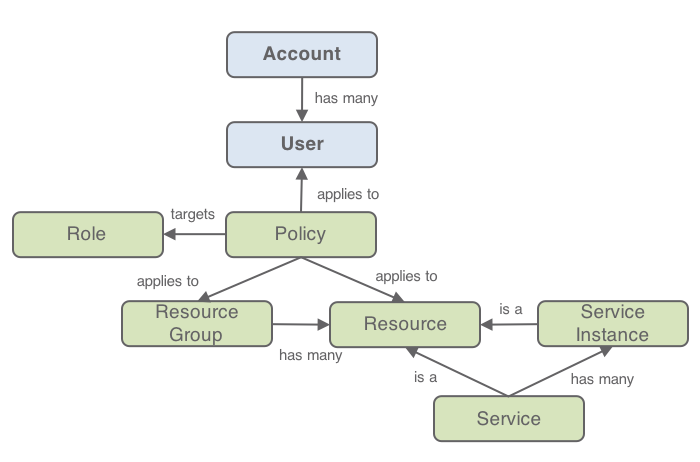
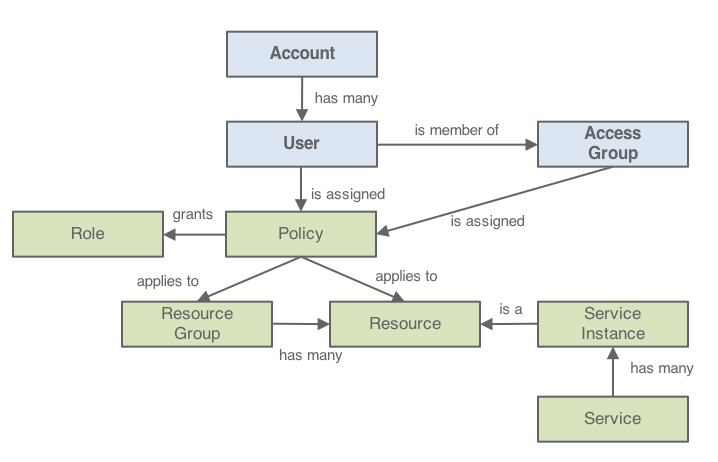
introduce reference to access groups

Changed region(s): [[0.0, 0.0606, 0.99, 0.9697], [0.57, 0.4242, 0.75, 0.5152], [0.72, 0.3939, 0.78, 0.4242]]

diff --git a/users-teams-applications.md b/users-teams-applications.md
@@ -76,13 +76,13 @@ When it comes to assigning responsibilities to the project team members, let's d
 A **policy** assigns a user or service ID one or more **roles** with a combination of attributes that define the scope of access. The policy can provide access to a single service down to the instance level, or the policy can apply to a set of resources organized together in a resource group. Depending on the user roles that you assign, the user or service ID is allowed varying levels of access for completing platform management tasks or accessing a service by using the UI or performing specific types of API calls.
 
 <p style="text-align: center;">
-  <img src="./images/solution20-users-teams-applications/iam-model.png" width="50%" />
+  <img src="./images/solution20-users-teams-applications/iam-model.png" style="width: 70%;" />
 </p>
 
 At this time, not all services in the {{site.data.keyword.cloud_notm}} catalog can be managed by using IAM. For these services, you can continue to use Cloud Foundry by providing users access to the organization and space to which the instance belongs with a Cloud Foundry role assigned to define the level of access that is allowed.
 
 <p style="text-align: center;">
-  <img src="./images/solution20-users-teams-applications/cloudfoundry-model.png" width="50%" />
+  <img src="./images/solution20-users-teams-applications/cloudfoundry-model.png" style="width: 70%;" />
 </p>
 
 ## Create the resources for one environment
@@ -90,7 +90,7 @@ At this time, not all services in the {{site.data.keyword.cloud_notm}} catalog c
 Although the three environments needed by this sample project require different access rights and may need to be allocated different capacities, they share a common architecture pattern.
 
 <p style="text-align: center;">
-  <img src="./images/solution20-users-teams-applications/one-environment.png" width="80%" />
+  <img src="./images/solution20-users-teams-applications/one-environment.png" style="width: 80%;" />
 </p>
 
 
@@ -113,7 +113,8 @@ The following diagram shows where the project resources are created under the ac
 ## Assign roles within the environment
 
 1. Invite users to the account
-1. Assign Policies to the users to control who can access the {{site.data.keyword.containershort_notm}} instance and their permissions. Refer to the [access policy definition](https://console.bluemix.net/docs/containers/cs_users.html#access_policies) to select the right policy for a user in the environment. 
+1. Assign Policies to the users to control who can access the {{site.data.keyword.containershort_notm}} instance and their permissions. Refer to the [access policy definition](https://console.bluemix.net/docs/containers/cs_users.html#access_policies) to select the right policies for a user in the environment. Users with the same set of policies can be placed into the [same access group](https://console.bluemix.net/docs/iam/groups.html#groups). It simplifies the user management as policies will be assigned to the access group and inherited by all users in the group.
+
 1. Configure their Cloud Foundry organization and space roles based on their needs within the environment. Refer to the [role definition](https://console.bluemix.net/docs/iam/cfaccess.html#cfaccess) to assign the right roles based on the environment.
 
 Refer to the documentation of services to understand how a service is mapping IAM and Cloud Foundry roles to specific actions. See for example [how the IBM Cloud Monitoring service maps IAM roles to actions](https://console.bluemix.net/docs/services/cloud-monitoring/security_ov.html#iam_roles).
@@ -134,7 +135,7 @@ For the Development environment, the user responsibilities defined earlier could
 The IAM access policies and Cloud Foundry roles are defined in the [Identify and Access Management user interface](https://console.bluemix.net/iam/#/users):
 
 <p style="text-align: center;">
-  <img title="" src="./images/solution20-users-teams-applications/edit-policy.png" height="400" />
+  <img title="" src="./images/solution20-users-teams-applications/edit-policy.png" />
 </p>
 
 ## Replicate for multiple environments
@@ -146,7 +147,7 @@ From there, you can replicate similar steps to build the other environments.
 1. Create one cluster per environment
 
 <p style="text-align: center;">
-  <img title="Using separate clusters to isolate environments" src="./images/solution20-users-teams-applications/multiple-environments.png" width="80%" />
+  <img title="Using separate clusters to isolate environments" src="./images/solution20-users-teams-applications/multiple-environments.png" style="width: 80%;" />
 </p>
 
 Using a combination of tools like the [{{site.data.keyword.cloud_notm}} `bx` CLI](https://github.com/IBM-Cloud/ibm-cloud-developer-tools), [HashiCorp's `terraform`](https://www.terraform.io/), the [{{site.data.keyword.cloud_notm}} provider for Terraform](https://github.com/IBM-Cloud/terraform-provider-ibm), Kubernetes CLI `kubectl`, you can script and automate the creation of these environments.
@@ -160,7 +161,7 @@ Separate Kubernetes clusters for the environments come with good properties:
 Another approach is to use [Kubernetes namespaces](https://kubernetes.io/docs/concepts/overview/working-with-objects/namespaces/) in conjunction with [Kubernetes resource quotas](https://kubernetes.io/docs/concepts/policy/resource-quotas/) to isolate environments and control resource consumption.
 
 <p style="text-align: center;">
-  <img title="Using separate namespaces to isolate environments" src="./images/solution20-users-teams-applications/multiple-environments-with-namespaces.png" width="80%" />
+  <img title="Using separate namespaces to isolate environments" src="./images/solution20-users-teams-applications/multiple-environments-with-namespaces.png" style="width: 80%;" />
 </p>
 
 ## Setup delivery pipeline
